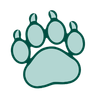
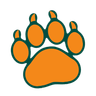
Honey paws on the map; places keep their country and category
- Cluster paws are honey with a dark-teal outline instead of faint teal, so they stand out on the green map
- The add-place form sends the country code from the address search (it always sent null)
- The importer fails a row whose categories are all unknown instead of adding an uncategorised place

diff --git a/bear-necessities-web/src/app/core/services/geocoding.service.spec.ts b/bear-necessities-web/src/app/core/services/geocoding.service.spec.ts
@@ -1,0 +1,59 @@
+import { TestBed } from '@angular/core/testing';
+import { provideHttpClient } from '@angular/common/http';
+import { HttpTestingController, provideHttpClientTesting } from '@angular/common/http/testing';
+import { GeocodeResult, GeocodingService } from './geocoding.service';
+
+describe('GeocodingService', () => {
+  let service: GeocodingService;
+  let http: HttpTestingController;
+
+  beforeEach(() => {
+    TestBed.configureTestingModule({ providers: [provideHttpClient(), provideHttpClientTesting()] });
+    service = TestBed.inject(GeocodingService);
+    http = TestBed.inject(HttpTestingController);
+  });
+
+  const searchFor = (feature: object): GeocodeResult[] => {
+    let results: GeocodeResult[] = [];
+    service.search('somewhere').subscribe(found => (results = found));
+    http.expectOne(request => request.url.includes('/geocoding/')).flush({ features: [feature] });
+    return results;
+  };
+
+  it('takes the country code from the context of a venue', () => {
+    const [venue] = searchFor({
+      id: 'poi.1',
+      text: 'Chapitô',
+      place_name: 'Chapitô, Lisbon, Portugal',
+      center: [-9.13, 38.71],
+      context: [
+        { id: 'place.2', text: 'Lisbon' },
+        { id: 'country.3', text: 'Portugal', short_code: 'pt' }
+      ]
+    });
+
+    expect(venue.country).toBe('Portugal');
+    expect(venue.countryCode).toBe('PT');
+    expect(venue.city).toBe('Lisbon');
+  });
+
+  it('takes the country code from a country result itself', () => {
+    const [country] = searchFor({
+      id: 'country.3',
+      text: 'Thailand',
+      place_name: 'Thailand',
+      center: [101, 15],
+      properties: { short_code: 'th' }
+    });
+
+    expect(country.country).toBe('Thailand');
+    expect(country.countryCode).toBe('TH');
+  });
+
+  it('leaves the country code empty for a dropped pin', () => {
+    let results: GeocodeResult[] = [];
+    service.search('38.7, -9.1').subscribe(found => (results = found));
+
+    expect(results[0].countryCode).toBeUndefined();
+  });
+});

diff --git a/bear-necessities-web/src/app/features/submit-listing/submit-listing.component.ts b/bear-necessities-web/src/app/features/submit-listing/submit-listing.component.ts
@@ -251,6 +251,8 @@ export class SubmitListingComponent implements OnInit, AfterViewInit, OnDestroy 
       address: ['', [Validators.maxLength(200)]],
       city: ['', [Validators.maxLength(100)]],
       country: ['', [Validators.maxLength(100)]],
+      // Filled from the address search only; lets the map group the place by country
+      countryCode: [null as string | null],
       timezone: [detectedTimezone, [Validators.required]],
       latitude: [null as number | null, [Validators.required, Validators.min(-90), Validators.max(90)]],
       longitude: [null as number | null, [Validators.required, Validators.min(-180), Validators.max(180)]],
@@ -307,6 +309,7 @@ export class SubmitListingComponent implements OnInit, AfterViewInit, OnDestroy 
       longitude: parseFloat(result.longitude.toFixed(6)),
       city: result.city || this.form.get('city')?.value,
       country: result.country || this.form.get('country')?.value,
+      countryCode: result.countryCode ?? null,
       address: result.fullName
     });
 
@@ -439,7 +442,7 @@ export class SubmitListingComponent implements OnInit, AfterViewInit, OnDestroy 
       address: formValue.address || null,
       city: formValue.city || null,
       country: formValue.country || null,
-      countryCode: null,
+      countryCode: formValue.countryCode || null,
       timezone: formValue.timezone,
       isPermanent: formValue.isPermanent,
       categoryIds: this.selectedCategoryIds(),

diff --git a/bear-necessities-web/src/app/core/services/geocoding.service.ts b/bear-necessities-web/src/app/core/services/geocoding.service.ts
@@ -11,6 +11,7 @@ export interface GeocodeResult {
   address?: string;
   city?: string;
   country?: string;
+  countryCode?: string;
   bbox?: [number, number, number, number];
 }
 
@@ -62,8 +63,13 @@ export class GeocodingService {
 
   private toResult(feature: any): GeocodeResult {
     const context: any[] = feature.context || [];
-    const findContext = (prefix: string) =>
-      context.find(entry => (entry.id || '').startsWith(prefix))?.text;
+    const findEntry = (prefix: string) => context.find(entry => (entry.id || '').startsWith(prefix));
+    const findContext = (prefix: string) => findEntry(prefix)?.text;
+    // A country result carries its own code; anything smaller finds it in its context
+    const isCountry = (feature.id || '').startsWith('country');
+    const countryShortCode: string | undefined = isCountry
+      ? feature.properties?.short_code
+      : findEntry('country')?.short_code;
 
     return {
       name: feature.text,
@@ -72,7 +78,8 @@ export class GeocodingService {
       latitude: feature.center?.[1],
       address: feature.properties?.address || undefined,
       city: findContext('place') || findContext('locality'),
-      country: findContext('country'),
+      country: isCountry ? feature.text : findContext('country'),
+      countryCode: countryShortCode?.toUpperCase(),
       bbox: Array.isArray(feature.bbox) && feature.bbox.length === 4 ? feature.bbox : undefined
     };
   }

diff --git a/bear-necessities-web/design/generate-paws.js b/bear-necessities-web/design/generate-paws.js
@@ -8,10 +8,10 @@ const [, , referencePath, outputDir] = process.argv;
 const CLUSTER_TILT_DEGREES = -9;
 const VARIANTS = [
   { name: 'paw-trail', size: 48, fill: [93, 64, 55], fillAlpha: 0.85, tilt: 0 },
-  // Clusters are an outlined paw with a faint fill, so the map underneath stays readable
-  { name: 'paw-cluster-small', size: 96, fill: [77, 182, 172], fillAlpha: 0.22, stroke: [38, 150, 140], tilt: CLUSTER_TILT_DEGREES },
-  { name: 'paw-cluster-medium', size: 96, fill: [38, 166, 154], fillAlpha: 0.26, stroke: [0, 121, 107], tilt: CLUSTER_TILT_DEGREES },
-  { name: 'paw-cluster-large', size: 96, fill: [0, 121, 107], fillAlpha: 0.3, stroke: [0, 77, 64], tilt: CLUSTER_TILT_DEGREES }
+  // Clusters are warm honey paws with a dark-teal outline: teal vanished into the map's greens and water
+  { name: 'paw-cluster-small', size: 96, fill: [251, 192, 45], fillAlpha: 0.8, stroke: [0, 89, 79], tilt: CLUSTER_TILT_DEGREES },
+  { name: 'paw-cluster-medium', size: 96, fill: [249, 158, 27], fillAlpha: 0.85, stroke: [0, 89, 79], tilt: CLUSTER_TILT_DEGREES },
+  { name: 'paw-cluster-large', size: 96, fill: [245, 124, 0], fillAlpha: 0.9, stroke: [0, 77, 64], tilt: CLUSTER_TILT_DEGREES }
 ];
 const MARGIN_SHARE = 0.08;
 const OUTLINE_SHARE = 0.03;

diff --git a/bear-necessities-web/src/app/core/map/paw-clusters.ts b/bear-necessities-web/src/app/core/map/paw-clusters.ts
@@ -4,7 +4,7 @@ import { loadMapImages } from './map-images';
 
 /**
  * Groups of places (Mapbox clusters and server density cells) drawn as bear paws that grow with their count.
- * Images come from design/generate-paws.js (paw-reference.png as a teal outline with a faint fill, tilted).
+ * Images come from design/generate-paws.js (paw-reference.png as a honey paw with a dark-teal outline, tilted).
  */
 
 const PAW_CLUSTER_PIXELS = 96;
@@ -19,7 +19,7 @@ const ICON_SIZES = { small: 0.85, medium: 1.05, large: 1.25, huge: 1.45 };
 const TEXT_SIZE = 12;
 // Zoomed far out a whole country fits in a few pixels, so paws shrink with the map: [zoom, scale]
 const ZOOM_SCALE: [number, number][] = [[1.5, 0.5], [4, 0.62], [7, 0.82], [10, 1]];
-// The fill is already faint; crowded low-zoom paws fade a little more so the map shows through
+// Crowded low-zoom paws fade a little so the map shows through
 const ZOOM_OPACITY: [number, number][] = [[2, 0.8], [8, 1]];
 
 const PAW_IMAGE_IDS = ['paw-cluster-small', 'paw-cluster-medium', 'paw-cluster-large'];

diff --git a/BearNecessities/BearNecessities.Infrastructure/Imports/PlaceImportService.cs b/BearNecessities/BearNecessities.Infrastructure/Imports/PlaceImportService.cs
@@ -187,6 +187,11 @@ public sealed class PlaceImportService : IPlaceImportService
             if (categoriesBySlug.TryGetValue(slug, out var category))
                 place.AddCategory(category);
 
+        // A place without a category never shows under any filter, so a typo'd slug list must fail the row, not hide it
+        if (place.Categories.Count == 0)
+            throw new InvalidOperationException(
+                $"no known category in '{string.Join(";", candidate.CategorySlugs)}' (slugs are separated by ';')");
+
         if (!string.IsNullOrWhiteSpace(candidate.Website))
             place.AddExternalLink(PlaceExternalLink.Create(place.Id, "Website", candidate.Website!));
 
